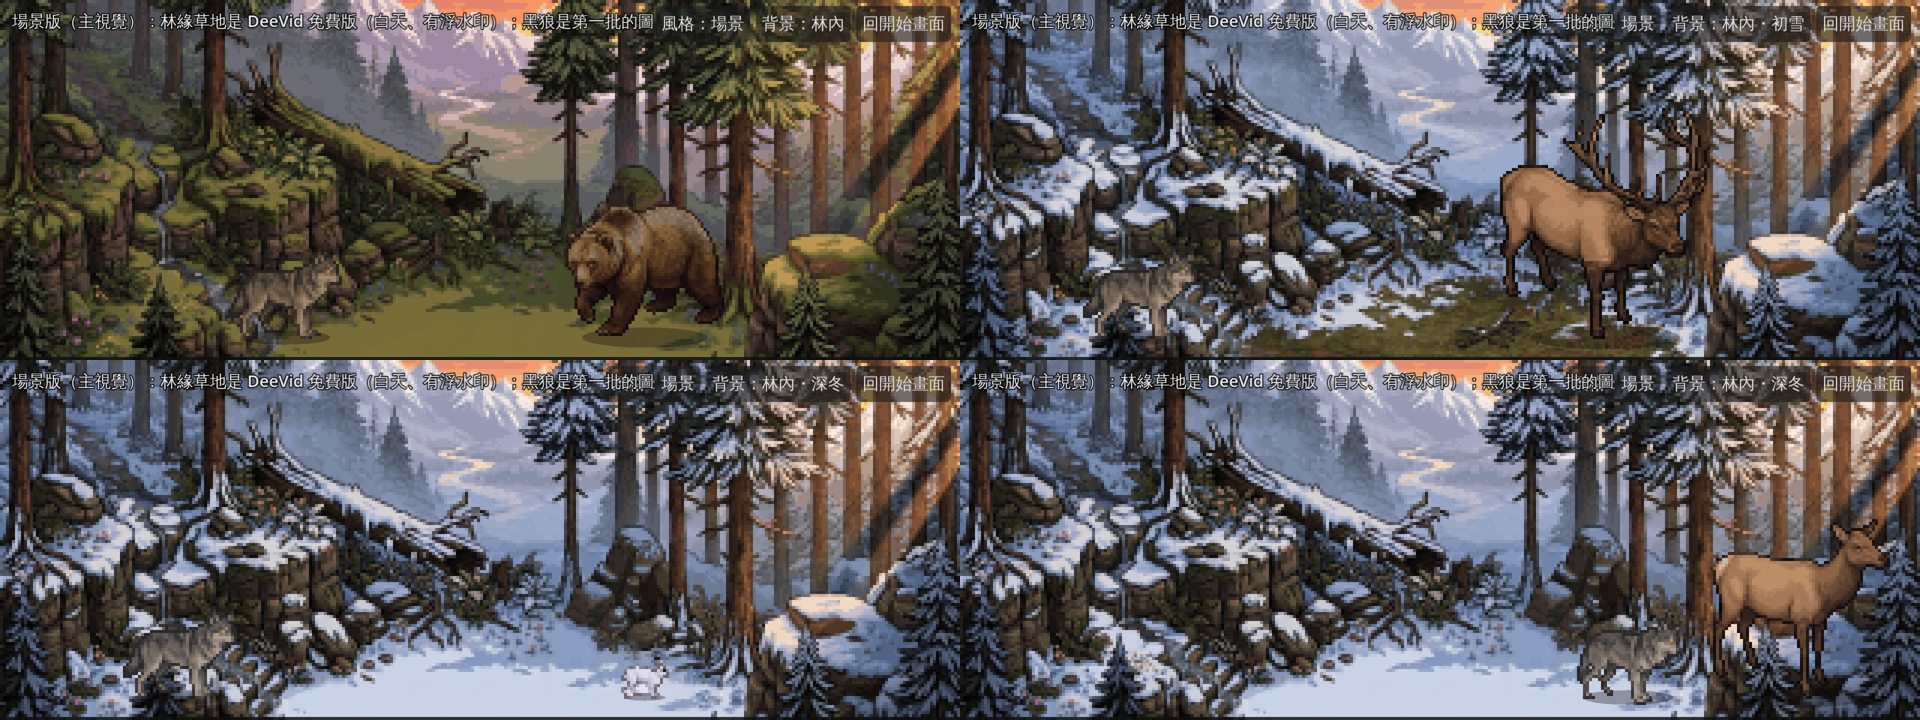
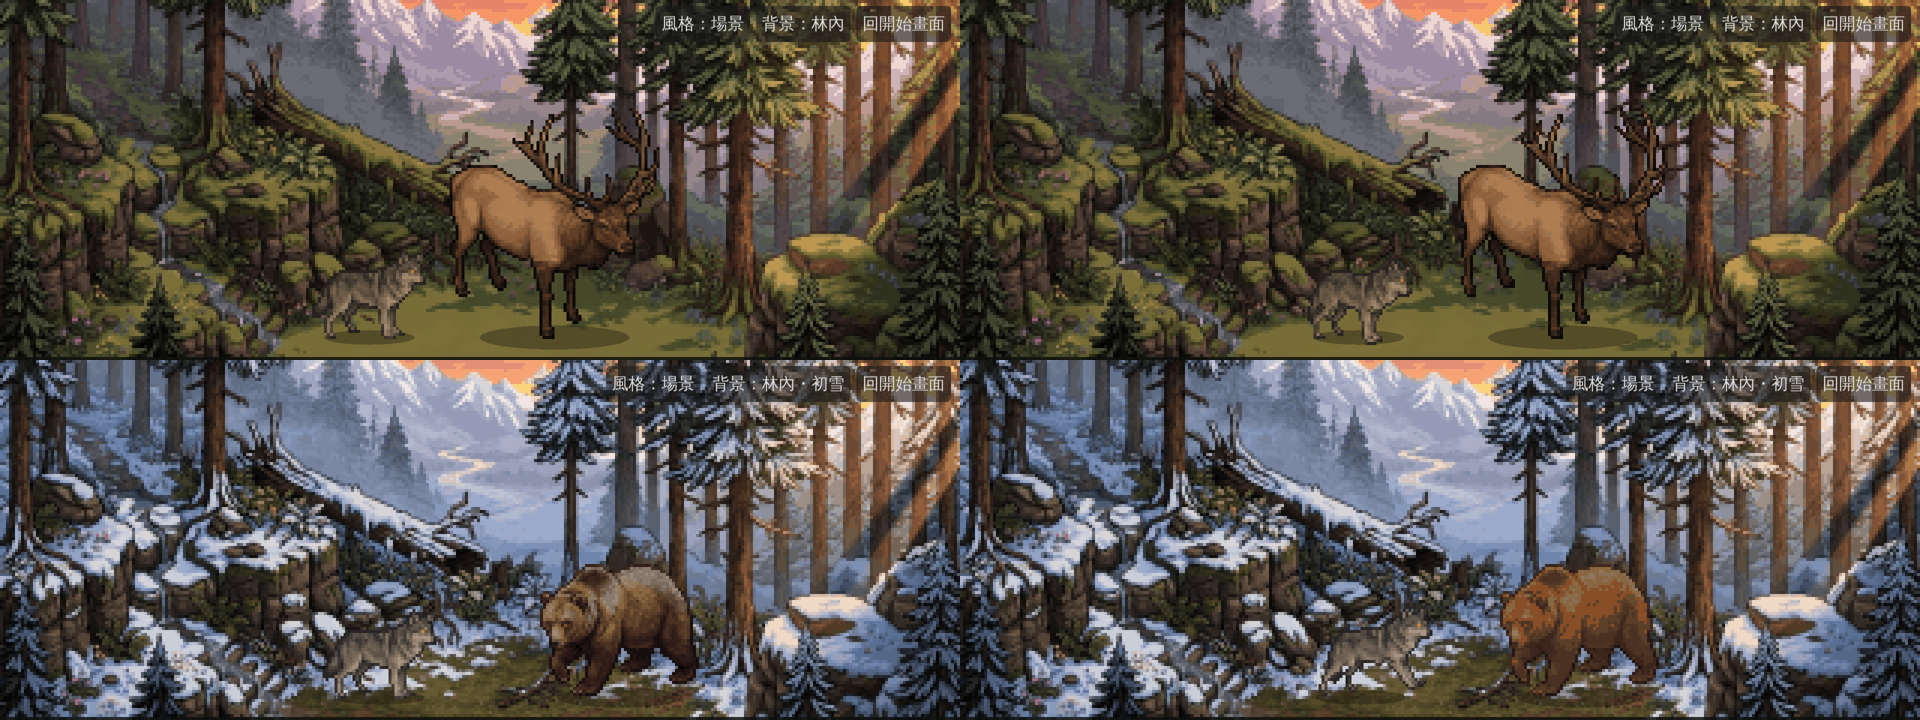
美術測試「場景」風格：只用 Gemini 的圖（拿掉 DeeVid 背景）；每張背景設定可站範圍，站位依動物身寬夾在空地裡；場景版撲咬往前衝的距離縮小
Claude-Session: https://claude.ai/code/session_01HkqM82v9towmCBuEomSQC3

diff --git a/arts/art_scene_test_2026-10-13/process_scene.py b/arts/art_scene_test_2026-10-13/process_scene.py
@@ -9,8 +9,8 @@ HERE = os.path.dirname(os.path.abspath(__file__))
 OUT = os.path.join(HERE, "..", "..", "assets", "art", "art_test", "scene")
 SIZE = (320, 180)
 COLORS = 128
-SCENES = {"forest": "bg_forest.jpg", "meadow": "bg_meadow.png", "winter": "bg_winter.png",
-          "forest_summer": "bg_forest_summer.jpg", "forest_snowy": "bg_forest_snowy.jpg", "forest_winter": "bg_forest_winter.jpg"}
+# 只用 Gemini 的圖（DeeVid 免費版有浮水印，原圖留在 source/ 但不輸出）
+SCENES = {"forest_summer": "bg_forest_summer.jpg", "forest_snowy": "bg_forest_snowy.jpg", "forest_winter": "bg_forest_winter.jpg"}
 
 
 def main():
